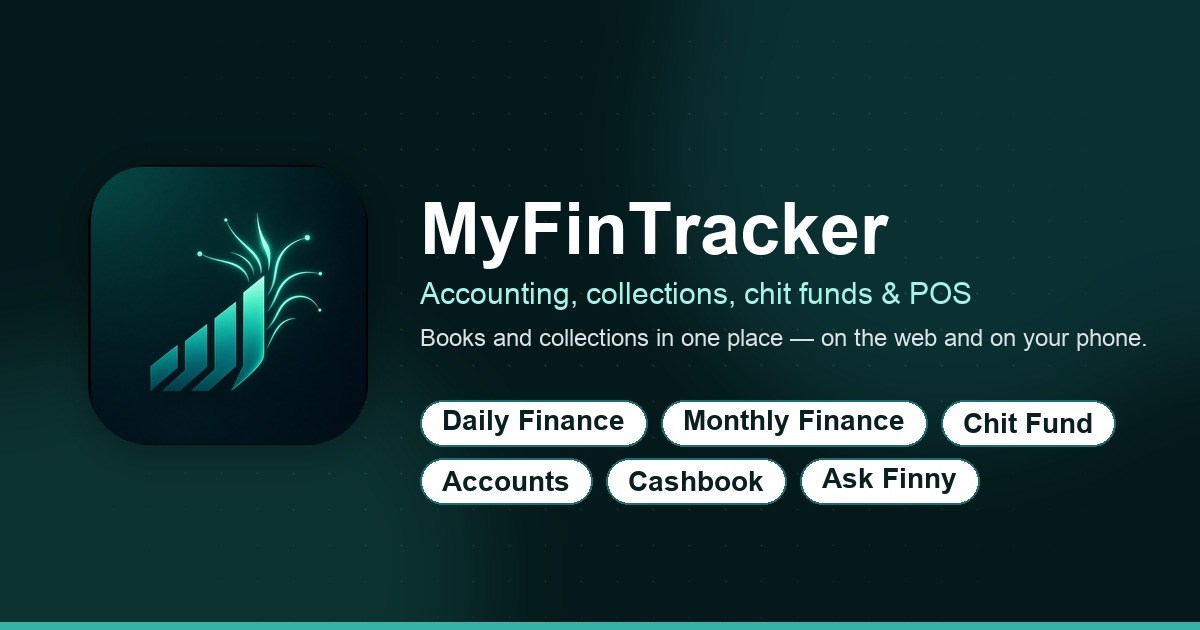
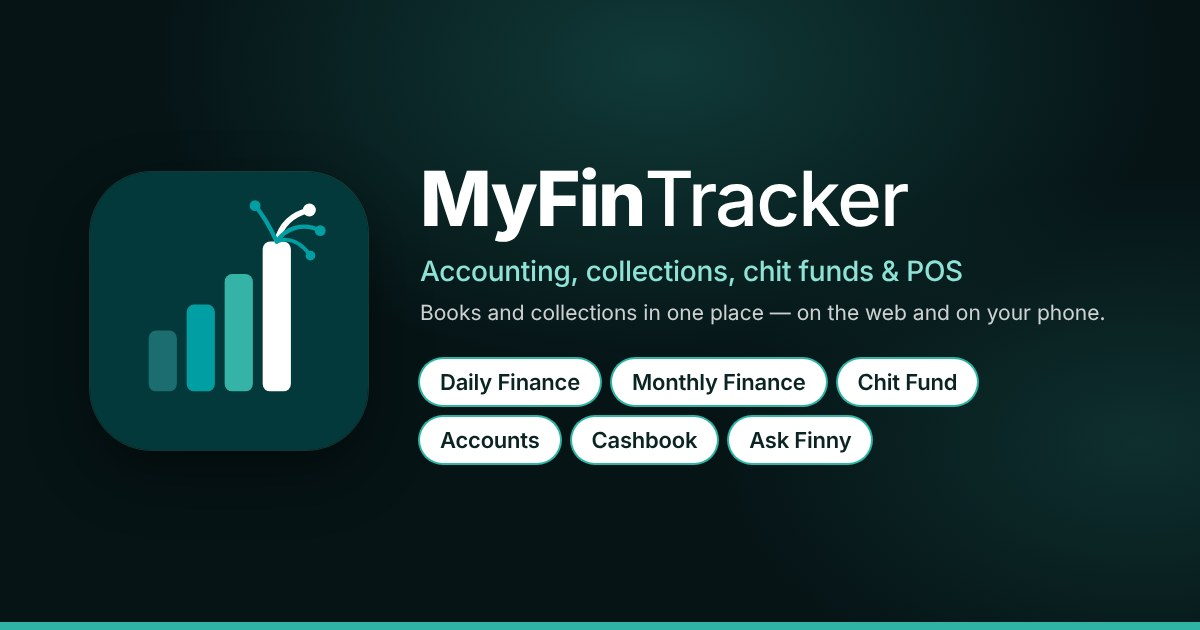
Wordmark and share card in Inter
- MyFinTracker wordmark uses Inter with normal tracking instead of
  wide-spaced Poppins, so it matches the headings beside it. Poppins is
  no longer loaded.
- Rebuild the link preview image (og-share) in Inter with the app icon;
  bump its URL so WhatsApp fetches the new one.

Claude-Session: https://claude.ai/code/session_01XyEoBNNRa5tWiMu3Hkb7Lk

diff --git a/src/styles/finebank.css b/src/styles/finebank.css
@@ -2,7 +2,7 @@
  * MyFinTracker design system, based on the Finebank financial dashboard kit.
  * Loaded after app.css (see AppShell) so it is the final word on colour, type and shape.
  * Everything visual reads from the tokens below; the dark theme only redefines tokens.
- * Fonts (Inter, Poppins for the wordmark) are linked from index.html.
+ * Fonts (Inter) are linked from index.html.
  */
 /* Type lives in fonts.css. Color lives in colors.css. Shape stays here. */
 :root {
@@ -131,7 +131,7 @@ td:has(> .btn + .btn) { line-height: 2.6; }
 /* ------------------------------------------------------------------ login */
 .login { max-width: 440px !important; margin: 8vh auto 48px !important; padding: 0 16px; }
 .login > .brand.ft-login-brand { margin-bottom: 8px; }
-.login > .brand.ft-login-brand .ft-brand { color: var(--ft-primary) !important; font-size: var(--ft-type-page); line-height: 48px; letter-spacing: .08em; }
+.login > .brand.ft-login-brand .ft-brand { color: var(--ft-primary) !important; font-size: var(--ft-type-page); line-height: 48px; letter-spacing: -.02em; }
 .ft-auth-brandrow .ft-brand-lockup .ft-brand { color: var(--ft-text) !important; }
 .financier-nav .nav-title .ft-brand-lockup .ft-brand { color: #fff !important; }
 .financier-nav .nav-title .ft-brand-mark { width: 28px; height: 28px; }
@@ -158,7 +158,7 @@ td:has(> .btn + .btn) { line-height: 2.6; }
 /* desktop: the logo lives in the showcase, so only the product tag (e.g. Accounts) shows here */
 .ft-auth-brandrow:has(.ft-auth-product) { display: flex; margin-bottom: 16px; }
 @media (width > 1100px) { .ft-auth-brandrow > .ft-brand { display: none; } }
-.ft-auth-brandrow .ft-brand { color: var(--ft-text) !important; font-size: var(--ft-type-hero); line-height: 1.15; letter-spacing: .08em; }
+.ft-auth-brandrow .ft-brand { color: var(--ft-text) !important; font-size: var(--ft-type-hero); line-height: 1.15; letter-spacing: -.02em; }
 .ft-auth-product { padding: 4px 10px; border-radius: 999px; background: var(--ft-primary-soft); color: var(--ft-primary); font-weight: 600; font-size: var(--ft-type-label); }
 .ft-auth-title { margin: 0 0 8px; color: var(--ft-text); font-weight: 700; font-size: clamp(28px, 2.3vw, 44px); line-height: var(--ft-leading-tight); letter-spacing: var(--ft-tracking-tight); }
 /* long sign-up heading stays on one line, scaling down to fit */
@@ -233,7 +233,7 @@ td:has(> .btn + .btn) { line-height: 2.6; }
 .ft-auth-showcase { position: sticky; top: 0; align-self: start; display: flex; flex-direction: column; height: 100svh; padding: clamp(28px, 4.5cqw, 64px) clamp(28px, 6cqw, 72px) clamp(20px, 3cqw, 40px); overflow: hidden; background: var(--ft-showcase-bg); color: #fff; container-type: inline-size; isolation: isolate; }
 .ft-auth-showcase::before { content: ""; position: absolute; inset: 0; z-index: -1; background: radial-gradient(55% 40% at 85% 8%, rgba(41, 157, 145, .40), transparent 70%), radial-gradient(60% 45% at 30% 75%, rgba(41, 157, 145, .26), transparent 70%); }
 .ft-auth-showcase::after { content: ""; position: absolute; inset: 0; z-index: -1; background-image: radial-gradient(rgba(255, 255, 255, .07) 1px, transparent 1px); background-size: 28px 28px; mask-image: radial-gradient(ellipse at 50% 65%, #000 25%, transparent 75%); }
-.ft-auth-showcase-brand { color: #fff !important; font-size: var(--ft-type-hero); letter-spacing: .08em; }
+.ft-auth-showcase-brand { color: #fff !important; font-size: var(--ft-type-hero); letter-spacing: -.02em; }
 .ft-auth-showcase-brand.ft-brand-lockup .ft-brand { color: #fff !important; font-size: inherit; letter-spacing: inherit; }
 .ft-auth-showcase-brand .ft-brand-mark { width: 40px; height: 40px; box-shadow: 0 0 0 1px rgba(110, 231, 216, .22), 0 8px 24px rgba(0, 0, 0, .28); }
 .ft-auth-showcase-copy { max-width: min(560px, 78cqw); margin-top: clamp(24px, 5svh, 64px); }
@@ -664,7 +664,7 @@ input[type="month"]::-webkit-calendar-picker-indicator { margin: 0; padding: 0; 
 }
 
 /* sidebar contents */
-.ft-brand { color: #fff !important; font-weight: 500 !important; letter-spacing: .08em !important; }
+.ft-brand { color: #fff !important; font-weight: 500 !important; letter-spacing: -.02em !important; }
 .ft-brand-strong { font-weight: 800; }
 .financier-nav .nav-label { display: flex; align-items: center; gap: 12px; }
 .financier-nav .nav-icon { flex: none; }
@@ -1852,7 +1852,7 @@ button.upcoming-payments-toggle:focus-visible { outline: 2px solid var(--ft-prim
 
 /* ===== Boot screen: FIN flips letter by letter while Track holds still ===== */
 .ft-boot { position: fixed; inset: 0; z-index: 2000; display: grid; place-content: center; justify-items: center; gap: 18px; background: var(--ft-bg); }
-.ft-boot-mark { display: flex; align-items: baseline; color: var(--ft-text); font: 500 var(--ft-type-page)/1 var(--ft-font-brand, var(--ft-font)); letter-spacing: .08em; perspective: 600px; }
+.ft-boot-mark { display: flex; align-items: baseline; color: var(--ft-text); font: 500 var(--ft-type-page)/1 var(--ft-font-brand, var(--ft-font)); letter-spacing: -.02em; perspective: 600px; }
 .ft-boot-fin { display: inline-flex; color: var(--ft-primary); font-weight: 800; }
 .ft-boot-fin > span { display: inline-block; transform-origin: 50% 55%; backface-visibility: visible; animation: ft-boot-flip 2.4s cubic-bezier(.65, 0, .35, 1) infinite; animation-delay: calc(var(--i) * .14s); }
 .ft-boot-track { margin-left: .02em; }

diff --git a/index.html b/index.html
@@ -16,7 +16,7 @@
     <meta property="og:url" content="%FT_APP_ORIGIN%/" />
     <meta property="og:title" content="MyFinTracker — Accounting and collections on your phone" />
     <meta property="og:description" content="Daily and monthly finance, chit funds, cashbook, and GST-ready accounts in one login. Built for Indian finance businesses, with offline Counter billing." />
-    <meta property="og:image" content="%FT_APP_ORIGIN%/brand/og-share.jpg" />
+    <meta property="og:image" content="%FT_APP_ORIGIN%/brand/og-share.jpg?v=2" />
     <meta property="og:image:type" content="image/jpeg" />
     <meta property="og:image:width" content="1200" />
     <meta property="og:image:height" content="630" />
@@ -25,7 +25,7 @@
     <meta name="twitter:card" content="summary_large_image" />
     <meta name="twitter:title" content="MyFinTracker — Accounting and collections on your phone" />
     <meta name="twitter:description" content="Daily and monthly finance, chit funds, cashbook, and GST-ready accounts in one login. Built for Indian finance businesses." />
-    <meta name="twitter:image" content="%FT_APP_ORIGIN%/brand/og-share.jpg" />
+    <meta name="twitter:image" content="%FT_APP_ORIGIN%/brand/og-share.jpg?v=2" />
     <meta name="twitter:image:alt" content="MyFinTracker — accounting, collections, chit funds, and POS" />
     <script src="/theme-init.js"></script>
     <style>html,body,#root{margin:0;min-height:100%;background:#eef4f4;color:#131313}html[data-theme="dark"],html[data-theme="dark"] body,html[data-theme="dark"] #root{background:#111315;color:#f1f3f4}</style>
@@ -34,7 +34,7 @@
     <link rel="preconnect" href="%VITE_SUPABASE_URL%" crossorigin="anonymous" />
     <link rel="preconnect" href="https://fonts.googleapis.com" />
     <link rel="preconnect" href="https://fonts.gstatic.com" crossorigin />
-    <link rel="stylesheet" href="https://fonts.googleapis.com/css2?family=Inter:wght@300;400;500;600;700;800&family=Poppins:wght@500;700;800&display=swap" />
+    <link rel="stylesheet" href="https://fonts.googleapis.com/css2?family=Inter:wght@300;400;500;600;700;800&display=swap" />
     <link rel="manifest" href="/manifest.webmanifest" />
     <link rel="icon" href="/favicon.ico?v=4" sizes="any" />
     <link rel="icon" href="/favicon.svg?v=4" type="image/svg+xml" />

diff --git a/tests/ui.fontsAndStatus.test.js b/tests/ui.fontsAndStatus.test.js
@@ -19,9 +19,9 @@ const files = dir => readdirSync(dir).flatMap(name => {
   return statSync(path).isDirectory() ? files(path) : [path];
 });
 
-test("app styles use only the app fonts (Inter, Poppins for the wordmark)", () => {
-  const stray = /\b(Syne|DM Sans|Plus Jakarta Sans)\b/;
+test("app styles use only Inter", () => {
+  const stray = /\b(Syne|DM Sans|Plus Jakarta Sans|Poppins)\b/;
   const offenders = files("src").filter(path => /\.(css|jsx)$/.test(path) && stray.test(readFileSync(path, "utf8")));
   assert.deepEqual(offenders, []);
-  assert.doesNotMatch(readFileSync("index.html", "utf8"), /Plus\+Jakarta/);
+  assert.doesNotMatch(readFileSync("index.html", "utf8"), /Plus\+Jakarta|Poppins/);
 });

diff --git a/src/features/auth/AuthScreens.jsx b/src/features/auth/AuthScreens.jsx
@@ -69,7 +69,7 @@ function confirmationLinkNotice(params) {
   return null;
 }
 
-// MyFinTracker mark + wordmark (Poppins), optional product suffix such as "Accounts".
+// MyFinTracker mark + wordmark (Inter), optional product suffix such as "Accounts".
 function Wordmark({ suffix = "" }) {
   return <BrandWordmark suffix={suffix} markSize={36} />;
 }

diff --git a/src/styles/fonts.css b/src/styles/fonts.css
@@ -4,7 +4,7 @@
  */
 :root {
   --ft-font: "Inter", system-ui, -apple-system, "Segoe UI", Roboto, sans-serif;
-  --ft-font-brand: "Poppins", var(--ft-font);
+  --ft-font-brand: var(--ft-font);
   --ft-type-hero: clamp(36px, 4.4vw, 52px);
   --ft-type-page: clamp(28px, 3vw, 36px);
   --ft-type-title: clamp(20px, 1.2vw + 16px, 24px);
